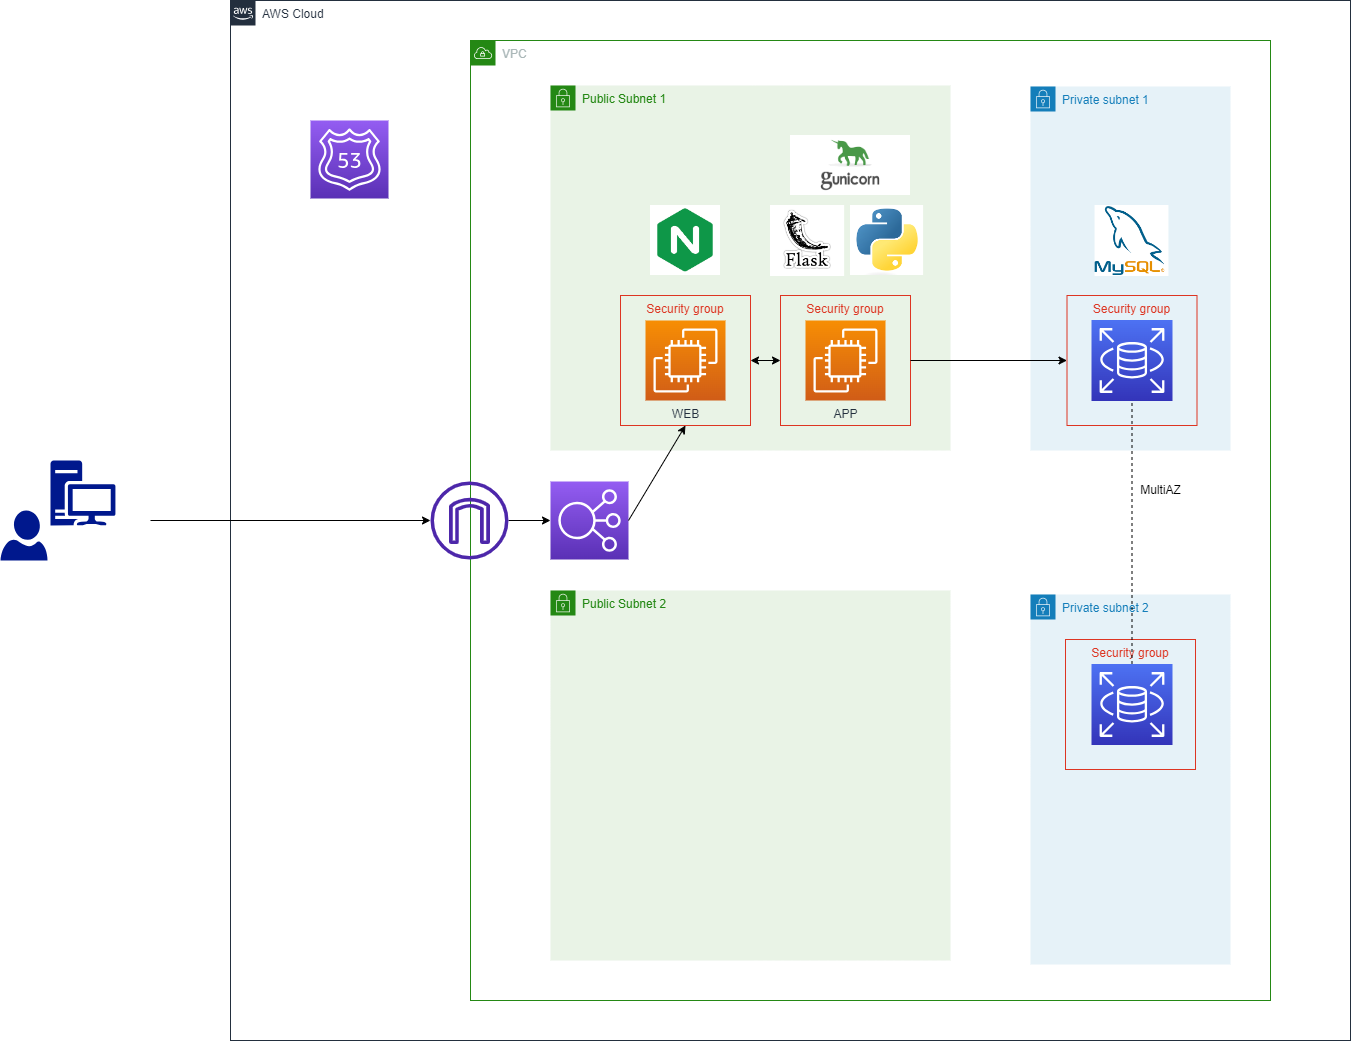
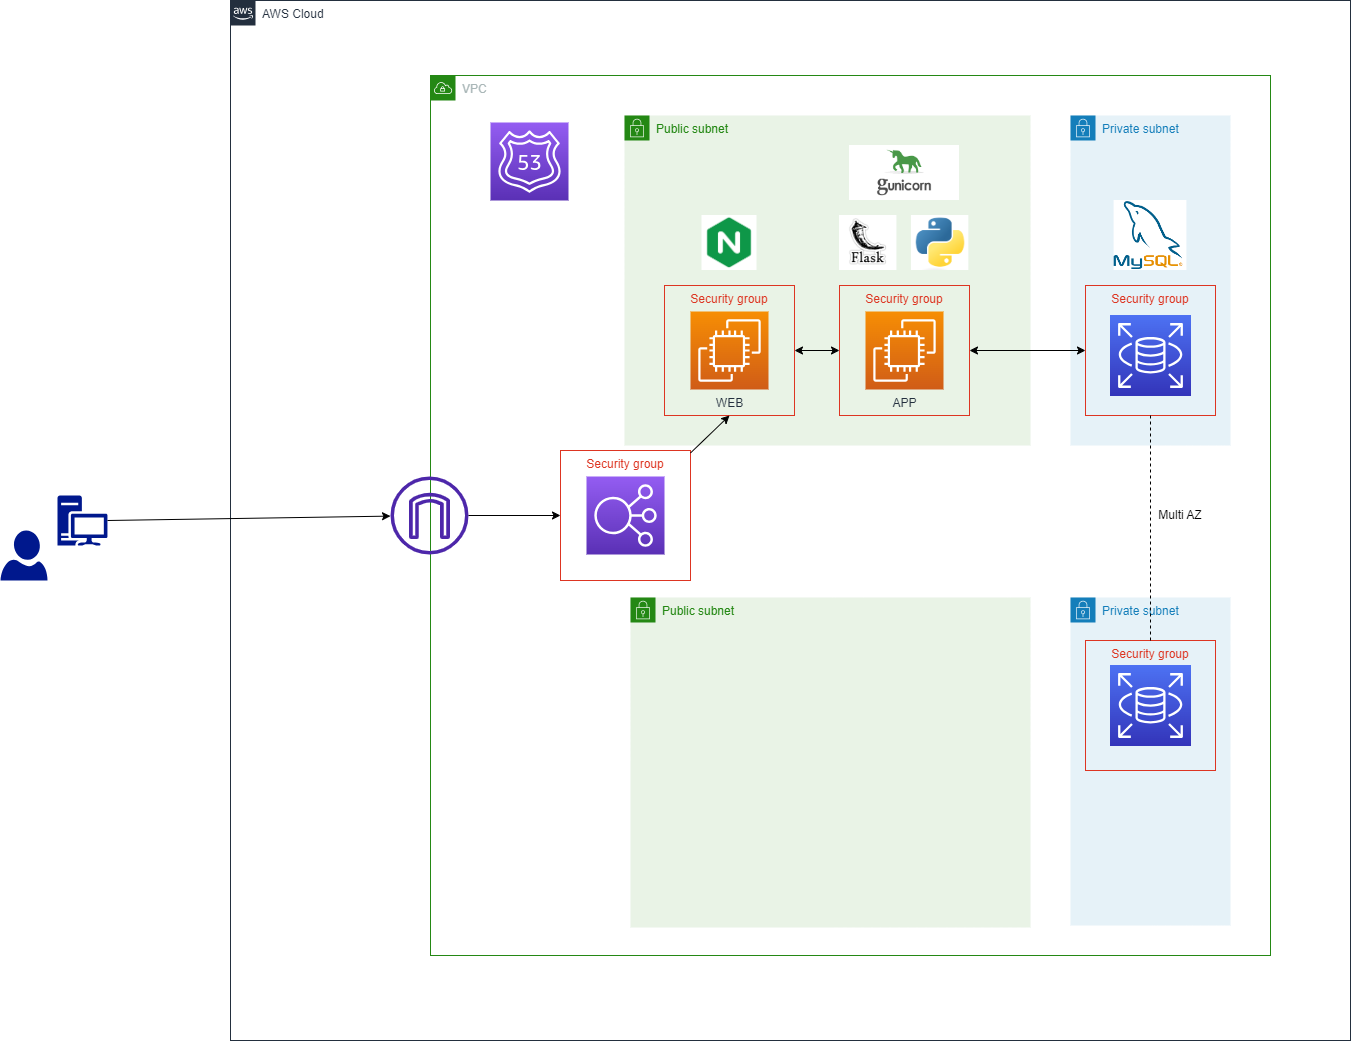
01-APP_Deploy.mdの加筆修正 構成図の修正

diff --git a/01-APP_Deploy.md b/01-APP_Deploy.md
@@ -5,19 +5,87 @@
 
 ## AWS環境構築
 ### 構成図
-![image](/01-APP_Deploy_Figure/figure.png)  <br>
+![構成図](/01-APP_Deploy_Figure/figure.png)  <br>
 
 ### CFnテンプレート
-Network
-VPC
+上記構成図をレイヤー毎に分割することを意識し、３分割してクロススタックにて作成。<br>
+cloudformationからスタックにて下記の順番で作成する。<br>
 
-Security
-SG
+#### Network
+[Networkスタック](/01-APP_Deploy_CfnTemplate/Flask-APP_01_Network.yml)<br>
+Parametersにて下記項目の設定変更が可能<br>
 
-Application
-EC2
-RDS
-Route
+|設定項目|デフォルト|
+| :--- | :--- |
+|VPC CIDR|10.10.0.0/16|
+|PublicSubnet1 CIDR|10.10.1.0/24|
+|PublicSubnet2 CIDR|10.10.2.0/24|
+|PrivateSubnet1 CIDR|10.10.11.0/24|
+|PrivateSubnet2 CIDR|10.10.12.0/24|
+
+|作成リソース一覧|備考|
+| :--- | :--- |
+|VPC||
+|InternetGateway||
+|PublicSubnet1||
+|PublicSubnet2||
+|PrivateSubnet1||
+|PrivateSubnet2||
+|RDSSubnetGroup||
+|PublicRouteTable||
+|DefaultPublicRoute||
+|HostZone|EC2WEB→EC2APPの名前解決のため|
+
+#### Security
+[Securityスタック](/01-APP_Deploy_CfnTemplate/Flask-APP_02_Security.yml)  <br>
+Parametersで一部のSG(SecurityGroup)の送信元IPを設定可能<br>
+
+|設定項目|デフォルト|備考|
+| :--- | :--- | :--- |
+|APPAllowedIP|0.0.0.0/0|アプリケーション接続用。必要に応じて設定|
+|EC2SSHAllowedIP|0.0.0.0/0|EC2WEB,EC2APPへのssh接続用。基本的に自IPのみに絞る|
+
+|作成リソース一覧|用途|許可設定|
+| :--- | :--- | :--- |
+|ALBSG|ALB適用|APPAllowedIPからのtcp,80|
+|EC2WEBSG|EC2WEB適用|ALBSGからのtcp,80　EC2SSHAllowedIPからのssh|
+|EC2APPSG|EC2APP適用|EC2WEBSGからのtcp,5000および8000 80　EC2SSHAllowedIPからのssh|
+|RDSSG|RDS適用|EC2APPSGからの3306|
+
+#### Application
+[Applicationスタック](01-APP_Deploy_CfnTemplate/Flask-APP_03_Application.yml)<br>
+
+Parametersで各EC2のAMIおよびKeyPairを設定<br>
+
+|設定項目|デフォルト|備考|
+| :--- | :--- | :--- |
+|EC2AppImageID|最新版指定||
+|EC2WebImageID|最新版指定||
+|EC2Keypair|-|作成済みのものをプルダウンにて指定|
+
+|作成リソース一覧|備考|
+| :--- | :--- |
+|EC2WEB||
+|EC2APP||
+|ALB||
+|RecordSet|EC2WEB→EC2APPの名前解決のため|
+
+#### Application(RDS)
+[Application_RDSスタック](01-APP_Deploy_CfnTemplate/Flask-APP_04_Application_RDS.yml)<br>
+RDSのみスタック実行時間を要するため分離。<br>
+cfn-lintにて
+
+|作成リソース一覧|備考|
+| :--- | :--- |
+|RDS||
+
+
+#### HostZoneおよびArecordsetのリソース確認
+ホストゾーンとレコードセットが作成されていること、また、EC2WEBから名前解決できることを確認<br>
+![image](/01-APP_Deploy_Figure/05-hostzone.png)  <br>
+![image](/01-APP_Deploy_Figure/06-Arecordhostzone.png)  <br>
+![image](/01-APP_Deploy_Figure/07-nslookup.png)  <br>
+
 
 ## アプリケーションデプロイ
 
@@ -98,7 +166,8 @@ cd flask-app
 ~~~
 
 #### 2 Setup env file
-サンプルアプリケーション用の.envファイル作成
+サンプルアプリケーション用の.envファイル作成（.envについてはサンプルアプリケーションリポジトリ参照）
+[自作サンプルアプリケーション](https://github.com/tomi050403/flask-app.git)<br>
 ~~~
 nano flaskr/.env
 ~~~
@@ -160,6 +229,21 @@ nginx設定ファイルの作成
 ~~~
 sudo nano /etc/nginx/conf.d/flask-app.conf
 ~~~
+
+下記のように作成。
+```nginx
+server {
+    listen 80;
+    server_name app.instance.privatelocal;
+
+    location / {
+        proxy_pass http://app.instance.privatelocal:8000;
+        proxy_http_version 1.1;
+        proxy_set_header Host $host;
+    }
+}
+```
+
 
 #### 3 Start nginx
 nginx起動
